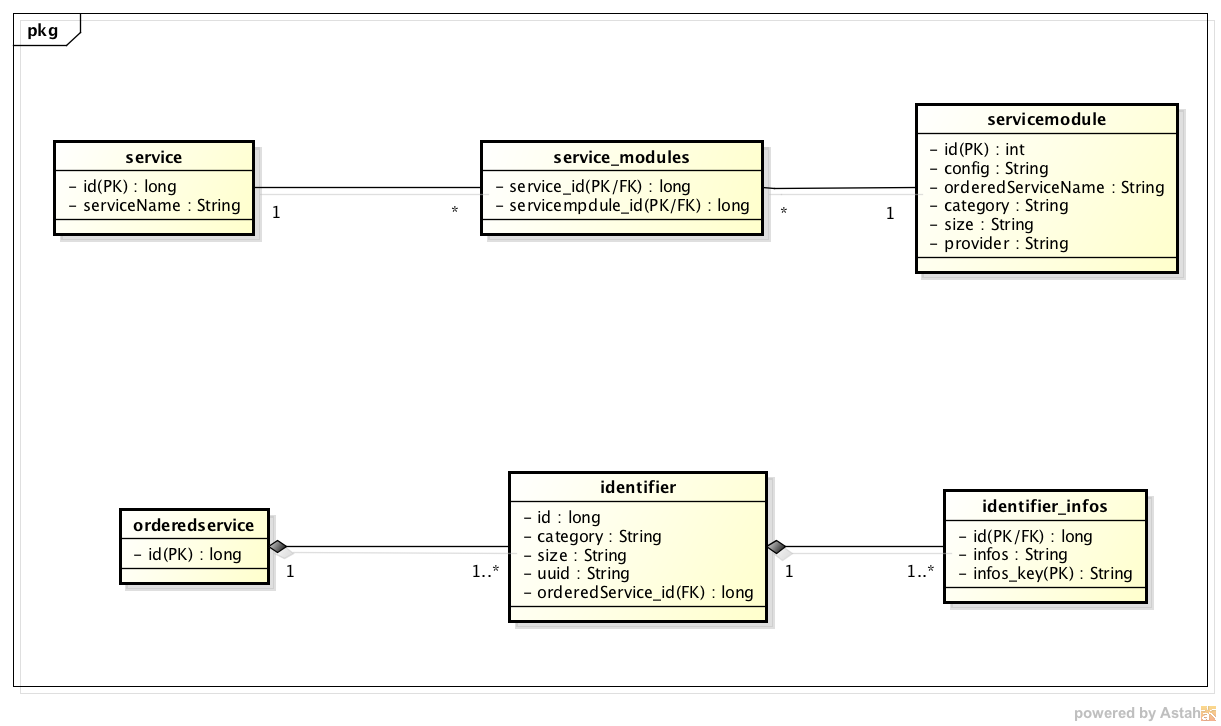
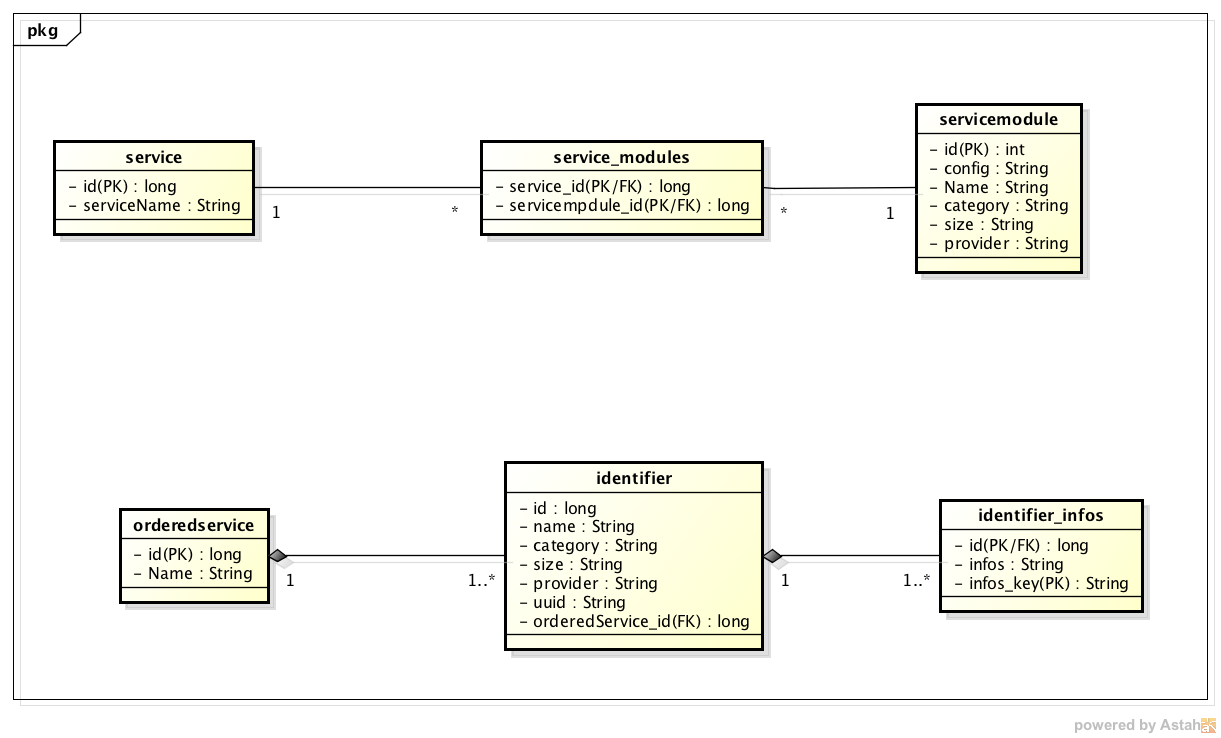
Text zu Persistierung

diff --git a/05_Design/04_Architektur/Architektur.tex b/05_Design/04_Architektur/Architektur.tex
@@ -41,10 +41,13 @@ Der ServiceModuleHandler entscheidet an welchen ResourceController ein ServiceMo
 Der Entscheidungsalgorithmus kann auf verschiedenste Weise implementiert werden, deshalb gibt es ein Interface.
 
 \subsubsection{ResourceController}
-Der ResourceController ist eine Abstraktion eines Controllers, die nicht auf irgendwelche Bibliotheksabhängigkeiten (z.B. LibVirt, JClouds) eingeht und lediglich dem ServiceModuleHandler die nötigen Informationen anbietet.
+Der ResourceController ist eine Abstraktion eines Controllers, die nicht auf irgendwelche 
+Bibliotheksabhängigkeiten (z.B. LibVirt, JClouds) eingeht und lediglich dem ServiceModuleHandler die nötigen Informationen anbietet.
 
 \subsubsection{LibVirtController}
-Der LibVirtController ist eine weitere Abstraktion eines Controllers, die aber speziell einer Bibliothek (in diesem Fall LibVirt) zugewiesen ist. Die Klasse kümmert sich um die Instanziierung und kann, wenn nötig, Helfermethoden anbieten.
+Der LibVirtController ist eine weitere Abstraktion eines Controllers, die aber speziell einer 
+Bibliothek (in diesem Fall LibVirt) zugewiesen ist. Die Klasse kümmert sich um die 
+Instanzierung und kann, wenn nötig, Helfermethoden anbieten.
 
 \subsubsection{LibVirt<category>Controller}
 
@@ -59,13 +62,47 @@ die Datenbank.
 
 \section{Dependency Injection}
 
-Die GenericAPI ist relativ komplex ausgefallen und kann erweitert werden. Um unnötigen Code in den oberen Schichten zu vermeiden, wird die GenericAPI mit Hilfe von Dependency Injection aufgesetzt. Es ist möglich in einem XML die gesamte GenericAPI nach belieben zusammenzusetzen.
+Die GenericAPI ist relativ komplex ausgefallen und kann erweitert werden. Um unnötigen 
+Code in den oberen Schichten zu vermeiden, wird die GenericAPI mit Hilfe von Dependency
+ Injection aufgesetzt. Es ist möglich in einem XML die gesamte GenericAPI nach belieben zusammenzusetzen.
 
 \section{Deployment}
+
+Spring liefert einen Application Server mit, bei welchem es sich um einen Tomcat 
+Server handelt, der Datenbankserver wird über den JDBC Treiber angesprochen.
 
 \includegraphics[width=\textwidth]{./05_Design/04_Architektur/deployment}
 
 \section{Persistierung}
+Für die Persistierung wird ein OR Mapper verwendet, wodurch die vorhanden 
+Objekte 1:1 auf die Datenbank abgebildet werden können.
+
+\subsection{Service}
+Der Service wird mit einer automatisch generierten ID und einem Namen 
+abgespeichert, dabei ist der Name des Service Unique und kann nur einmal 
+verwendet werden, was das finden eines Service vereinfacht.
+
+\subsection{Servicemodule}
+Das Servicemodul wird mit einer automatisch generierten ID und besitzt einen 
+Name (zur Identifizierung Unqique).
+Category, Size und Provider sind Enums und geben feste werte vor z.B.: Size: 
+S,M,L.
+Das Configfile ist ein Text, wodurch es keine Rolle Spielt ob nun ein XML, JSON 
+oder YAML abgespeichert wird.
+
+\subsection{Orderedservice}
+Der Orderedservice besitzt eine automatisch generierte ID + einen nicht Uniqen 
+Namen, um einen Service auch mehrfach abonnieren zu können.
+
+\subsection{Identifier}
+Der Identifier besitzt eine generierte ID + den Namen des dazugehörigen 
+Servicemodul.
+Kategorie, Size und Provider werden ebenfalls vom Servicemodul übernohmen.
+Die uuid ist je nach Provider verschieden und wird durch diesen vorgegeben.
+
+\subsection{Identifier_infos}
+Die Identifier Infos beinhalten die vorhanden Infos zu einem abonnierten 
+Servicemodul, welche schlussendlich auf dem Dashboard ausgegeben werden können.
 
 \includegraphics[width=\textwidth]{./05_Design/04_Architektur/Datenmodell}
 
